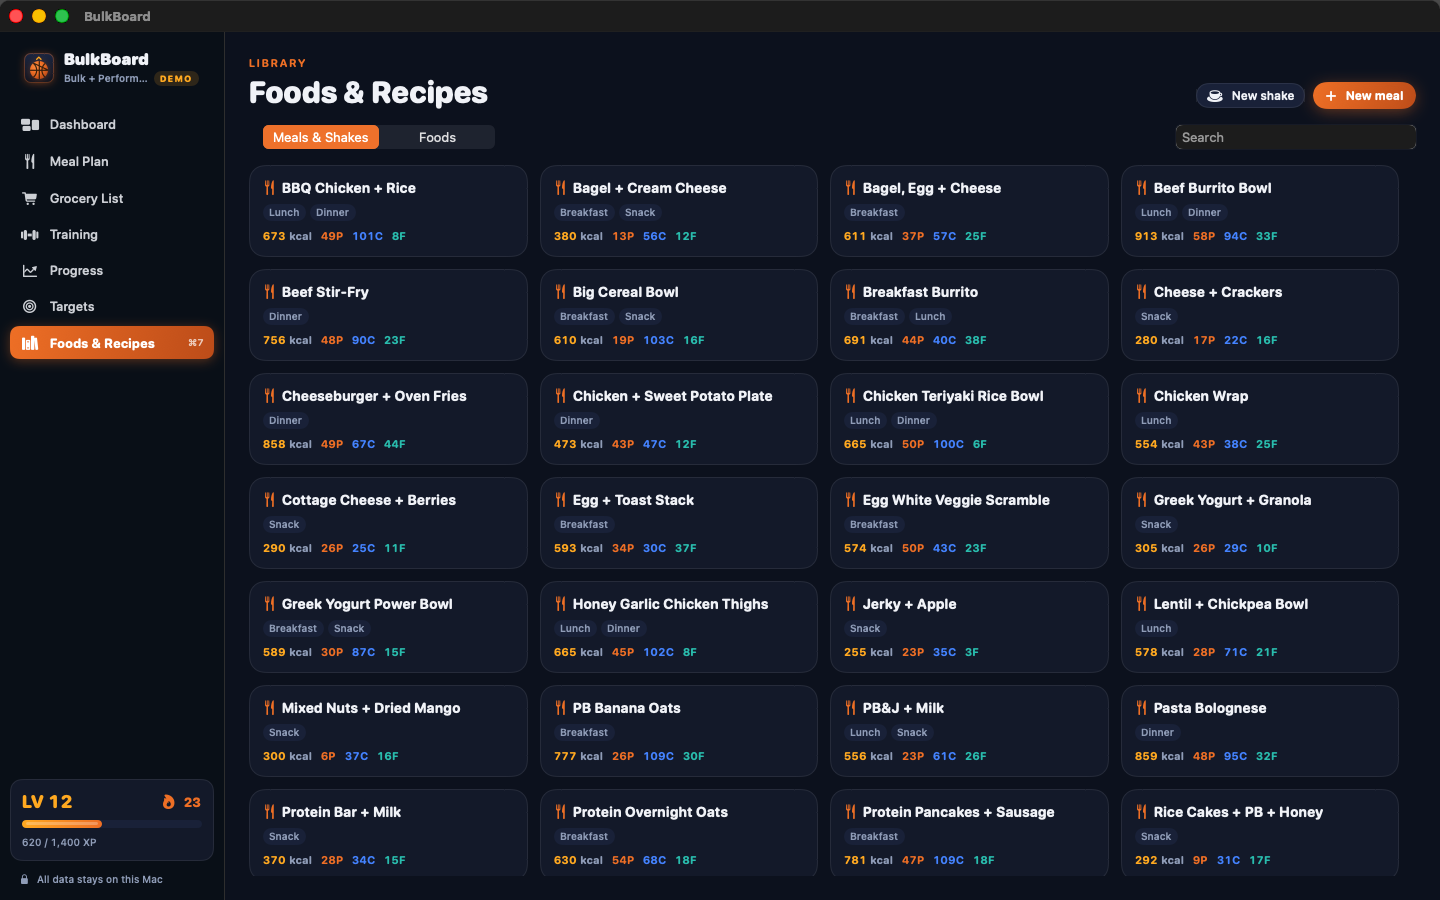
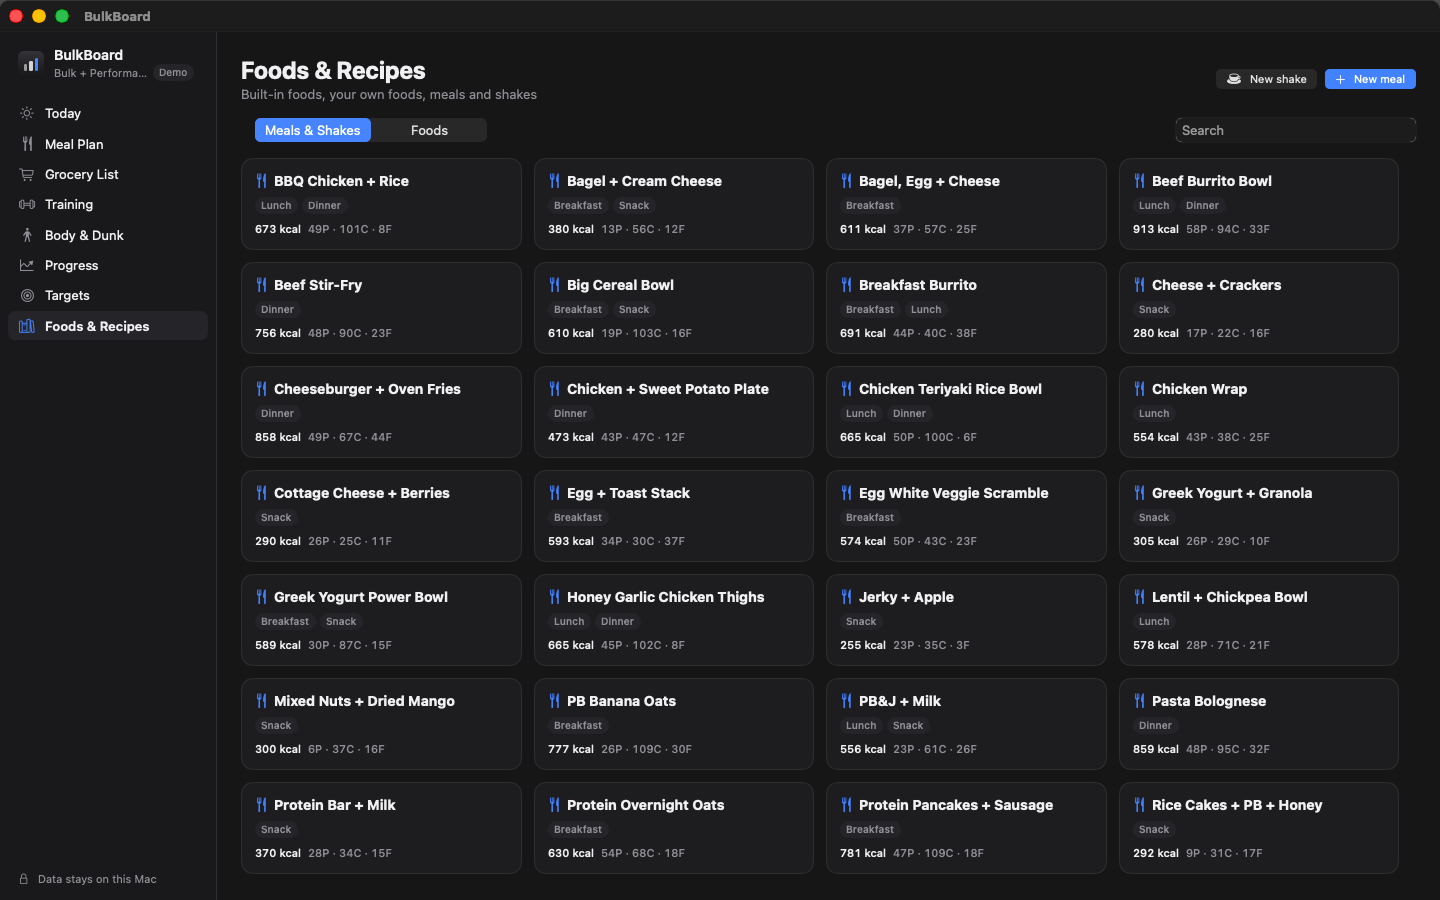
Docs and screenshots for the redesign and Body & Dunk; photo model picker

Changed region(s): [[0.375, 0.1867, 0.75, 0.9644], [0.0, 0.0311, 0.375, 0.9956], [0.7812, 0.0622, 1.0, 0.9644]]

diff --git a/BulkBoard/Features/Settings/SettingsView.swift b/BulkBoard/Features/Settings/SettingsView.swift
@@ -101,8 +101,17 @@ struct AISettings: View {
                     }
                 }
                 if client.isAvailable {
-                    Picker("Model", selection: $client.model) {
+                    Picker("Text model", selection: $client.model) {
                         ForEach(client.models, id: \.self) { Text($0).tag($0) }
+                    }
+                    if client.visionModels.isEmpty {
+                        LabeledContent("Photo model") {
+                            Text("None installed (ollama pull llama3.2-vision)").foregroundStyle(.secondary)
+                        }
+                    } else {
+                        Picker("Photo model", selection: $client.visionModel) {
+                            ForEach(client.visionModels, id: \.self) { Text($0).tag($0) }
+                        }
                     }
                 }
                 Button("Check again") { Task { await client.refresh() } }
@@ -113,7 +122,7 @@ struct AISettings: View {
             }
             if !client.isAvailable {
                 Section("Set it up") {
-                    Text("1. Install Ollama from ollama.com\n2. Run: ollama pull llama3.2\n3. Keep Ollama running, then press Check again.")
+                    Text("1. Install Ollama from ollama.com\n2. Run: ollama pull llama3.2\n3. For photo reviews also run: ollama pull llama3.2-vision\n4. Keep Ollama running, then press Check again.")
                         .font(.system(size: 12, design: .monospaced))
                         .textSelection(.enabled)
                 }

diff --git a/README.md b/README.md
@@ -5,27 +5,28 @@
 <h1 align="center">BulkBoard</h1>
 
 <p align="center">
-  <b>Eat big. Lift heavy. Keep your legs for the court.</b><br>
-  A local-first Mac app for bulking while keeping your basketball conditioning: macros, meal plans, grocery lists, workouts and progress, in one place.
+  A local-first Mac app for bulking: macros, meal plans, grocery lists, training, body measurements and progress, in one place. Built for athletes who want to add size without losing their game, dunk included.
 </p>
 
 <p align="center">
   <a href="https://github.com/XmanXay69/bulkboard/actions/workflows/ci.yml"><img src="https://github.com/XmanXay69/bulkboard/actions/workflows/ci.yml/badge.svg" alt="CI"></a>
-  <img src="https://img.shields.io/badge/macOS-15%2B-0A1020" alt="macOS 15+">
-  <img src="https://img.shields.io/badge/Swift-6-F07A2A" alt="Swift 6">
-  <img src="https://img.shields.io/badge/data-100%25%20local-2FC48D" alt="Local only">
-  <a href="LICENSE"><img src="https://img.shields.io/badge/license-MIT-blue" alt="MIT"></a>
+  <img src="https://img.shields.io/badge/macOS-15%2B-555" alt="macOS 15+">
+  <img src="https://img.shields.io/badge/Swift-6-555" alt="Swift 6">
+  <img src="https://img.shields.io/badge/data-local%20only-555" alt="Local only">
+  <a href="LICENSE"><img src="https://img.shields.io/badge/license-MIT-555" alt="MIT"></a>
 </p>
 
-![Dashboard](docs/screenshots/dashboard.png)
+![Today](docs/screenshots/dashboard.png)
 
 ## What it does
 
 1. **Sets your calorie and macro targets** from your stats and goal, and shows the math.
 2. **Builds a weekly meal plan** that hits those targets, from a built-in food list or your own recipes.
 3. **Generates the grocery list** from the plan, merged and grouped by aisle.
-4. **Gives you a weekly training plan**: a lifting split for a standard gym (the YMCA kind) plus basketball conditioning days.
-5. **Logs bodyweight, lifts and court sessions** and shows progress, PRs and streaks.
+4. **Plans your training week**: a lifting split for a standard gym plus basketball/conditioning days.
+5. **Reads your body**: tape measurements and an optional photo point out lagging muscles, then the plan gives them extra work.
+6. **Works out what it takes to dunk** from your height, wingspan, reach and vertical, and adds jump training.
+7. **Tracks progress**: bodyweight trend, lifts, PRs, adherence and streaks.
 
 No account, no cloud, no analytics. Your data stays on your Mac.
 
@@ -35,48 +36,59 @@ No account, no cloud, no analytics. Your data stays on your Mac.
 - Mifflin-St Jeor BMR × activity level for maintenance, then a surplus sized to your target rate of gain (default 0.5–1 lb/week).
 - Warns when a goal date is unrealistic, caps the rate, and tells you when you'll actually get there.
 - Protein from bodyweight (0.8–1 g/lb), fat as a share of calories (25–30%), carbs fill the rest.
-- Separate targets for **Practice Day** (lifting), **Game Day** (court conditioning, more carbs) and **Rest Day**, averaging out to your weekly target. Override any of them.
+- Separate targets for lift, court and rest days that average out to your weekly target. Override any of them.
 - Five goal modes: Bulk, **Bulk + Performance** (default), Recomp, Cut, Maintain.
 
-![Targets and the math](docs/screenshots/targets.png)
+![Targets](docs/screenshots/targets.png)
 
 ### Meal planner
-- 7-day grid with breakfast, lunch, snacks, dinner and shakes; running totals per day with over/under indicators.
-- **Auto-fill my week** proposes meals that land each day on its day-type target. **Shuffle** re-rolls anything unlocked; **lock** meals you like.
+- 7-day grid with breakfast, lunch, snacks, dinner and shakes; running totals per day against that day's target.
+- **Auto-fill my week** picks meals and portions so each day lands on target. **Shuffle** re-rolls anything unlocked; **lock** meals you like.
 - Click a slot to pick a meal, or drag from the meal library. Right-click for servings, swap, lock, or mark eaten.
 - Respects allergies and dislikes. A **variety** setting goes from *Meal prep* (repeat a few meals, short grocery list) to *Mix it up*.
-- 80 built-in foods, 44 meals, and **shaker-bottle-only shakes** (no blender: powders and liquids only, enforced by tests). An editable whey scoop is pre-seeded under *My foods*.
+- 80 built-in foods, 44 meals, and **shaker-bottle-only shakes** (powders and liquids only, enforced by tests). An editable whey scoop is pre-seeded under *My foods*.
 
 ![Meal plan](docs/screenshots/meal-plan.png)
 
 ### Grocery list
-- One tap builds it from the week's plan. Quantities merge across meals with unit conversion and group by store section.
+- One click builds it from the week's plan. Quantities merge across meals with unit conversion and group by store section.
 - Check-off mode, a phone-sized **pop-out window** for the store, manual items, copy or export as plain text.
 
 ![Grocery list](docs/screenshots/grocery.png)
 
 ### Training
-- Weekly plan generator for 0–6 lifting days plus court days, arranged so leg days don't land right before game days. *Bulk + Performance* adds plyos and med-ball work.
-- Live logger with **previous performance inline**, **progressive overload suggestions** ("Last time 135 × 8 lb. Try 140 today."), a rest timer with a chime, and **automatic PR detection** (heaviest weight, best e1RM, rep PRs) with a confetti moment.
-- Log basketball sessions (pickup, league, drills, conditioning) with duration and RPE; load shows up next to lifting volume.
-- 54-exercise library for barbells, dumbbells, machines and cables, plus your own custom exercises.
+- Weekly plan for 0–6 lifting days plus court days, arranged so leg days don't land right before court days.
+- Live logger with **previous performance inline**, **progressive overload suggestions** ("Last time 135 × 8 lb. Try 140 today."), a rest timer, and **automatic PR detection** (heaviest weight, best e1RM, rep PRs).
+- Log basketball or conditioning sessions with duration and RPE; the load shows up next to lifting volume.
+- 58-exercise library for barbells, dumbbells, machines and cables, plus your own custom exercises.
 
 | This week | Logging a session |
 |---|---|
 | ![Training week](docs/screenshots/training-week.png) | ![Workout logger](docs/screenshots/training-log.png) |
 
+### Body & Dunk
+- **Check-ins**: height, weight, wingspan, standing reach, wrist and tape measurements, body fat (or a Navy-method estimate), standing vertical and best running touch, plus an optional photo.
+- **Proportions**: each part is compared with a classic target scaled to your frame (chest = 6.5 × wrist and fixed shares of that, shoulders ≈ 1.618 × waist for the V-taper). The weakest parts are flagged as focus areas. FFMI shows how much lean mass you have relative to your height.
+- **AI photo review** (optional): a vision model running in Ollama on your Mac gives a second opinion on what looks behind. Nothing is uploaded.
+- **Apply to my plan**: focus muscles get extra sets and an accessory on the days that train them, with an optional protein bump. (Food can't target one muscle; the extra training decides where growth shows up.)
+- **Dunk**: estimates your standing reach from height and wingspan (fit to NBA combine data), works out the running jump a dunk needs, measures the gap against your numbers, and shows what each 10 lb of bulk costs in vertical at the same power (Sayers equation). One click adds depth jumps, trap-bar jumps, calf and ankle work, and approach jumps on court days, and can cap your gain rate at 0.5 lb/week.
+
+| Physique | Dunk |
+|---|---|
+| ![Physique](docs/screenshots/body-physique.png) | ![Dunk](docs/screenshots/body-dunk.png) |
+
 ### Progress
 - Bodyweight with a 7-day moving average and a projection toward your goal date.
 - Estimated 1RM per lift, weekly lifting volume, court load, calorie and protein adherence.
-- Streaks, XP and levels, plus a weekly **box score** (this week vs last).
+- Macro streaks and a weekly summary (this week vs last).
 
 <img src="docs/screenshots/progress.png" alt="Progress" width="720">
 
 ### Optional local AI
-If [Ollama](https://ollama.com) is running on your Mac, BulkBoard adds an **Ask the coach** helper for meal ideas, macro estimates for anything you type, and higher-protein swaps. It talks only to `127.0.0.1:11434`. No cloud APIs, no keys. AI numbers are always labeled as estimates. Without Ollama, these controls just hide.
+If [Ollama](https://ollama.com) is running on your Mac, BulkBoard adds meal ideas, macro estimates for anything you type, higher-protein swaps, and (with a vision model such as `llama3.2-vision`) photo reviews. It talks only to `127.0.0.1:11434`. No cloud APIs, no keys. AI numbers are labeled as estimates. Without Ollama, these controls stay hidden.
 
-### Looks
-Dark by default (light and system modes too): scoreboard numerals, hardwood-orange accents, court-line art, XP bars, and a little fanfare when you hit a PR or finish your day's macros.
+### Design
+Neutral and quiet: system fonts, one accent color, native controls, light and dark mode (follows macOS by default).
 
 | Welcome | Light mode |
 |---|---|
@@ -84,7 +96,7 @@ Dark by default (light and system modes too): scoreboard numerals, hardwood-oran
 
 ## Install
 
-1. Download `BulkBoard-0.1.0-macOS.zip` from the [latest release](https://github.com/XmanXay69/bulkboard/releases/latest) and unzip it.
+1. Download the zip from the [latest release](https://github.com/XmanXay69/bulkboard/releases/latest) and unzip it.
 2. Drag **BulkBoard.app** to Applications.
 3. The build is ad-hoc signed, not notarized, so macOS will block the first launch. Either:
    - open it once, then go to **System Settings → Privacy & Security** and click **Open Anyway**, or
@@ -116,13 +128,13 @@ Run all tests:
 scripts/test.sh
 ```
 
-To try it without entering your own stats, click **Explore with demo data** on the welcome screen. Demo records carry a DEMO badge and can be wiped from Settings → Data.
+To try it without entering your own stats, click **Explore with demo data** on the welcome screen. Demo records carry a Demo badge and can be wiped from Settings → Data.
 
 ## Keyboard shortcuts
 
 | Shortcut | Action |
 |---|---|
-| ⌘1 – ⌘7 | Dashboard, Meal Plan, Grocery, Training, Progress, Targets, Foods & Recipes |
+| ⌘1 – ⌘8 | Today, Meal Plan, Grocery, Training, Body & Dunk, Progress, Targets, Foods & Recipes |
 | ⇧⌘F | Auto-fill the week |
 | ⇧⌘R | Shuffle unlocked meals |
 | ⇧⌘G | Build grocery list |
@@ -130,23 +142,23 @@ To try it without entering your own stats, click **Explore with demo data** on t
 | ⇧⌘W | Log weigh-in |
 | ⇧⌘E | Quick add food |
 | ⇧⌘L | Start today's workout |
-| ⇧⌘B | Log basketball session |
+| ⇧⌘B | Log court session |
 | ⇧⌘A | Ask the coach (with Ollama) |
 | ⇧⌘S | Export backup |
 | ⇧⌘C | Copy grocery list as text |
 
 ## Your data
 
-- Stored with SwiftData in `~/Library/Application Support/BulkBoard/`.
-- **Automatic daily backups** (last 14 kept) to `…/BulkBoard/Backups` or a folder you pick.
+- Stored with SwiftData in `~/Library/Application Support/BulkBoard/`; progress photos in its `Photos` folder (downscaled, location metadata stripped).
+- **Automatic daily backups** (last 14 kept) to `…/BulkBoard/Backups` or a folder you pick. Backups include measurements but not photos.
 - **Export / import** a full JSON backup, and export CSVs for weigh-ins, lifts, court sessions and intake (File menu or Settings → Data).
 - The only network connection BulkBoard ever makes is to Ollama on `127.0.0.1`, and only if you enable it.
 
 ## Tech stack
 
 - **SwiftUI + SwiftData + Swift Charts**, Swift 6 strict concurrency, macOS 15+.
-- **BulkCore**, a pure Swift package with no UI and no persistence, holds all the math: TDEE, gain-rate planning, macro splits, meal auto-fill, grocery merging, the split generator, PR detection, overload suggestions, trend/projection, streaks, XP. It's covered by 86 unit tests (`swift test`).
-- The app target maps SwiftData records to BulkCore value types. 31 app tests cover onboarding, planning, groceries, training, progress, demo data and backups against an in-memory store.
+- **BulkCore**, a pure Swift package with no UI and no persistence, holds all the math: TDEE, gain-rate planning, macro splits, meal auto-fill, grocery merging, the split generator (with focus and dunk modes), PR detection, overload suggestions, proportions and FFMI, dunk math, trend/projection, streaks. It's covered by 109 unit tests (`swift test`).
+- The app target maps SwiftData records to BulkCore value types. 38 app tests cover onboarding, planning, groceries, training, body check-ins, progress, demo data and backups against an in-memory store.
 - Built-in foods, meals and exercises ship as JSON in `Packages/BulkCore/Sources/BulkCore/Resources`. Tests check every food's calories against its macros, every recipe's ingredients, and that every shake is shaker-safe.
 
 ```
@@ -155,9 +167,9 @@ BulkBoard/
 ├── BulkBoard/
 │   ├── App/                  # app entry, root/sidebar, menu commands
 │   ├── Models/               # SwiftData records, persistence, record ↔ core mapping
-│   ├── Services/             # meal plan, grocery, training, progress, backup, Ollama, demo data
-│   ├── Features/             # Dashboard, Meals, Grocery, Training, Progress, Targets, Library, Settings, Onboarding
-│   ├── Design/               # theme tokens, components, charts, celebrations, icon mark
+│   ├── Services/             # meals, grocery, training, body, progress, backup, photos, Ollama, demo data
+│   ├── Features/             # Today, Meals, Grocery, Training, Body, Progress, Targets, Library, Settings, Onboarding
+│   ├── Design/               # theme tokens, components, charts, toasts, app mark
 │   └── Debug/                # launch-argument screenshot capture
 ├── BulkBoardTests/           # app-level tests (in-memory store)
 ├── scripts/                  # test, capture, screenshots, icon, release
@@ -166,13 +178,13 @@ BulkBoard/
 
 ## Roadmap
 
+- [ ] Side-by-side photo comparison between check-ins
 - [ ] Barcode / label scanning via Continuity Camera
-- [ ] iPhone companion for logging sets and groceries at the gym (CloudKit sync, opt-in)
+- [ ] iPhone companion for logging sets and groceries at the gym (opt-in sync)
 - [ ] Plate calculator and warm-up set generator
 - [ ] Deload weeks and periodization blocks
 - [ ] Edit the generated split (swap exercises, reorder days)
 - [ ] Apple Health export for weight and workouts
-- [ ] Recipe import from a URL (local parsing, no cloud)
 - [ ] Notarized builds
 
 ## Contributing
@@ -181,7 +193,7 @@ Issues and PRs are welcome; see [CONTRIBUTING.md](CONTRIBUTING.md). Adding foods
 
 ## Disclaimer
 
-BulkBoard does arithmetic on standard formulas. It isn't medical or dietary advice. Talk to a professional if you have health conditions, and listen to your body.
+BulkBoard does arithmetic on standard formulas and published estimates. Proportion targets are aesthetic yardsticks, not health standards, and dunk timelines are rough. It isn't medical or dietary advice.
 
 ## License
 

diff --git a/CHANGELOG.md b/CHANGELOG.md
@@ -1,5 +1,22 @@
 # Changelog
 
+## v0.2.0 · Body & Dunk, new look
+
+### New
+- **Body & Dunk** section. Check-ins with height, weight, wingspan, reach, wrist and tape measurements, jump numbers and an optional photo.
+- **Proportion analysis**: each part vs a frame-scaled target (McCallum ratios, golden-ratio V-taper), Navy body-fat estimate, FFMI, and flagged focus areas.
+- **AI photo review** with a local Ollama vision model (for example `llama3.2-vision`). The photo never leaves the Mac.
+- **Focus areas** applied to the training plan: extra sets plus an accessory for lagging muscles, with an optional protein bump.
+- **Dunk calculator**: reach estimate, required running jump, gap, inches lost per 10 lb at the same power, rough timeline, and a one-click jump program (depth jumps, trap-bar jumps, calf/ankle work, approach jumps on court days) with an optional 0.5 lb/week gain cap.
+
+### Changed
+- Redesigned UI: neutral surfaces, one accent color, system fonts, native controls, plain labels. Follows the system appearance by default.
+- Toasts instead of confetti; XP and levels removed from the interface.
+- New app icon.
+
+### Data
+- New check-in records migrate automatically from v0.1 stores. JSON backups now include check-ins, focus areas and the dunk goal (photos stay on disk).
+
 ## v0.1.0 · First release
 
 The first public build of BulkBoard: a local-first Mac app for bulking while keeping your basketball conditioning.

diff --git a/CONTRIBUTING.md b/CONTRIBUTING.md
@@ -38,9 +38,9 @@ That runs `swift test` for BulkCore and `xcodebuild test` for the app. New logic
 
 ## Design notes
 
-- Dark is the default; every color is a token in `Design/Theme.swift` with light and dark values.
-- Charts plot one entity color each (`Design/ChartStyle.swift`), using steps validated for color-vision deficiency and contrast. Don't put two measures with different units on one axis; use two charts.
-- Status colors (green/red) mean on-target/over and always come with an icon or label.
+- Keep it quiet: neutral surfaces, one accent (`Theme.accent`), system fonts, native controls. Every color is a token in `Design/Theme.swift` with light and dark values.
+- Charts plot a single measure in the accent color (`Design/ChartStyle.swift`). Don't put two measures with different units on one axis; use two charts.
+- Green and red are reserved for on-target/over and always come with an icon or label.
 
 ## Screenshots
 
